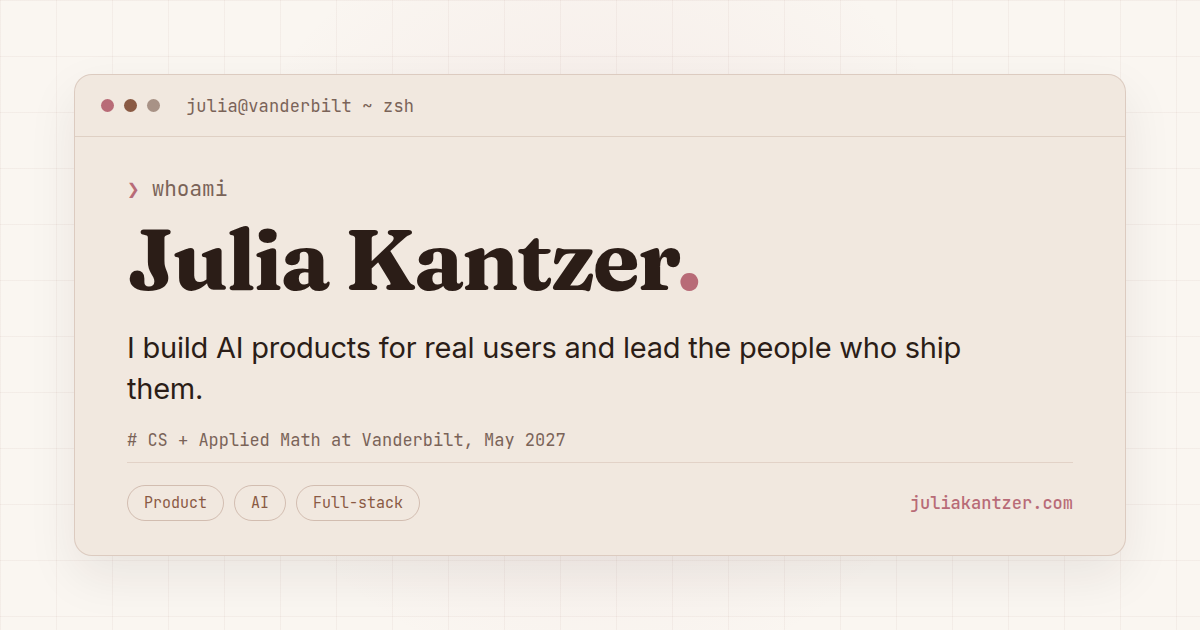
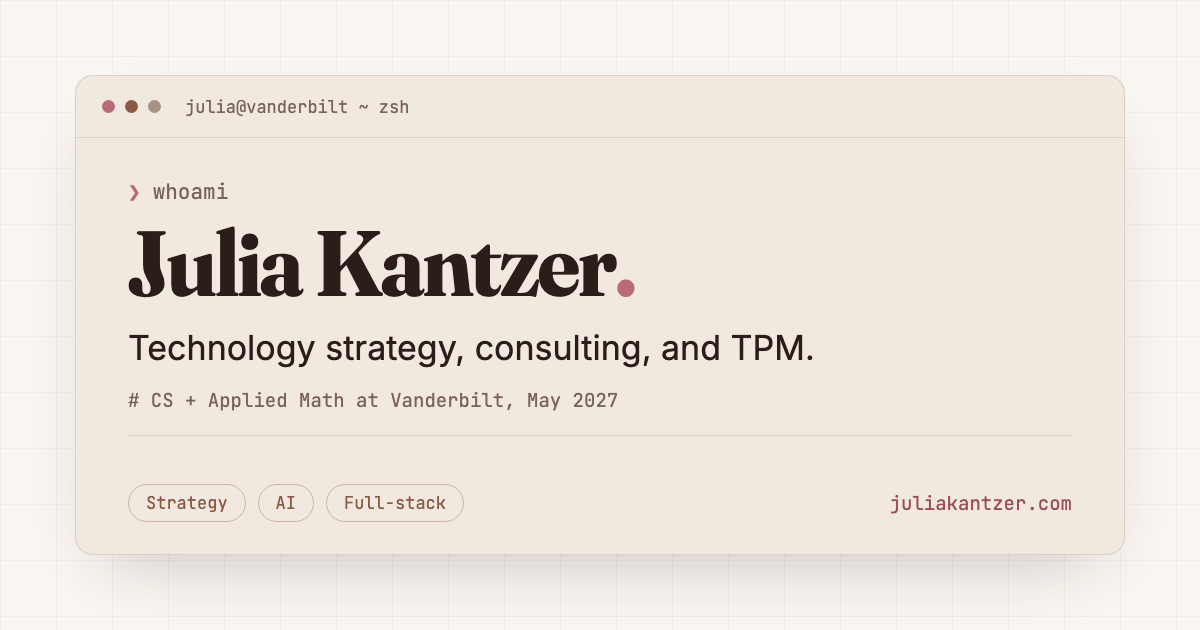
Phase 1: one positioning story for strategy, consulting, and TPM roles
- New tagline built on the Pega result, plus a seeking line in the hero
- Page title, meta, Open Graph, and Twitter tags match the new role
- Contact, interests, and console greeting copy updated
- Regenerate og-image.png from scripts/og-image.html via Playwright,
  rerun with npm run og

diff --git a/scripts/og-image.html b/scripts/og-image.html
@@ -1,0 +1,186 @@
+<!doctype html>
+<html lang="en">
+  <head>
+    <meta charset="UTF-8" />
+    <title>OG image</title>
+    <!-- Source for public/og-image.png. Render it with `npm run og`. Fonts load from node_modules. -->
+    <style>
+      @font-face {
+        font-family: 'Fraunces';
+        src: url('../node_modules/@fontsource-variable/fraunces/files/fraunces-latin-full-normal.woff2') format('woff2');
+        font-weight: 100 900;
+      }
+      @font-face {
+        font-family: 'Inter';
+        src: url('../node_modules/@fontsource-variable/inter/files/inter-latin-wght-normal.woff2') format('woff2');
+        font-weight: 100 900;
+      }
+      @font-face {
+        font-family: 'JetBrains Mono';
+        src: url('../node_modules/@fontsource-variable/jetbrains-mono/files/jetbrains-mono-latin-wght-normal.woff2')
+          format('woff2');
+        font-weight: 100 800;
+      }
+
+      :root {
+        --bg: #faf6f1;
+        --surface: #f1e8df;
+        --text: #2b1d17;
+        --muted: #7a6358;
+        --accent: #b86b77;
+        --accent-ink: #9a4c59;
+        --accent-2: #8a5a44;
+        --line: rgb(43 29 23 / 0.12);
+      }
+
+      * {
+        box-sizing: border-box;
+        margin: 0;
+      }
+
+      body {
+        width: 1200px;
+        height: 630px;
+        overflow: hidden;
+        background-color: var(--bg);
+        background-image:
+          linear-gradient(rgb(43 29 23 / 0.04) 1px, transparent 1px),
+          linear-gradient(90deg, rgb(43 29 23 / 0.04) 1px, transparent 1px);
+        background-size: 56px 56px;
+        color: var(--text);
+        font-family: 'Inter', sans-serif;
+        display: flex;
+        align-items: center;
+        justify-content: center;
+      }
+
+      .card {
+        width: 1050px;
+        height: 480px;
+        border: 1px solid var(--line);
+        border-radius: 18px;
+        background: var(--surface);
+        box-shadow: 0 30px 70px -30px rgb(43 29 23 / 0.25);
+        display: flex;
+        flex-direction: column;
+      }
+
+      .chrome {
+        display: flex;
+        align-items: center;
+        gap: 10px;
+        height: 62px;
+        padding: 0 26px;
+        border-bottom: 1px solid var(--line);
+        font-family: 'JetBrains Mono', monospace;
+        font-size: 17px;
+        color: var(--muted);
+      }
+      .dot {
+        width: 13px;
+        height: 13px;
+        border-radius: 50%;
+      }
+      .chrome span:last-child {
+        margin-left: 14px;
+      }
+
+      .body {
+        flex: 1;
+        display: flex;
+        flex-direction: column;
+        padding: 40px 52px 32px;
+      }
+
+      .cmd {
+        font-family: 'JetBrains Mono', monospace;
+        font-size: 21px;
+        color: var(--muted);
+      }
+      .cmd b {
+        color: var(--accent);
+        font-weight: 500;
+        margin-right: 12px;
+      }
+
+      h1 {
+        margin-top: 10px;
+        font-family: 'Fraunces', serif;
+        font-size: 92px;
+        font-weight: 700;
+        line-height: 1.05;
+        letter-spacing: -0.02em;
+        font-variation-settings:
+          'opsz' 144,
+          'SOFT' 30,
+          'WONK' 1;
+      }
+      h1 span {
+        color: var(--accent);
+      }
+
+      .line {
+        margin-top: 14px;
+        font-size: 34px;
+        line-height: 1.3;
+      }
+
+      .meta {
+        margin-top: 18px;
+        padding-bottom: 22px;
+        border-bottom: 1px solid var(--line);
+        font-family: 'JetBrains Mono', monospace;
+        font-size: 19px;
+        color: var(--muted);
+      }
+
+      .foot {
+        margin-top: auto;
+        display: flex;
+        align-items: center;
+        justify-content: space-between;
+      }
+      .pills {
+        display: flex;
+        gap: 12px;
+      }
+      .pill {
+        padding: 7px 17px;
+        border: 1px solid rgb(138 90 68 / 0.35);
+        border-radius: 999px;
+        font-family: 'JetBrains Mono', monospace;
+        font-size: 17px;
+        color: var(--accent-2);
+      }
+      .url {
+        font-family: 'JetBrains Mono', monospace;
+        font-size: 19px;
+        color: var(--accent-ink);
+      }
+    </style>
+  </head>
+  <body>
+    <div class="card">
+      <div class="chrome">
+        <i class="dot" style="background: #b86b77"></i>
+        <i class="dot" style="background: #8a5a44"></i>
+        <i class="dot" style="background: #a89286"></i>
+        <span>julia@vanderbilt ~ zsh</span>
+      </div>
+      <div class="body">
+        <p class="cmd"><b>❯</b>whoami</p>
+        <h1>Julia Kantzer<span>.</span></h1>
+        <p class="line">Technology strategy, consulting, and TPM.</p>
+        <p class="meta"># CS + Applied Math at Vanderbilt, May 2027</p>
+        <div class="foot">
+          <div class="pills">
+            <span class="pill">Strategy</span>
+            <span class="pill">AI</span>
+            <span class="pill">Full-stack</span>
+          </div>
+          <span class="url">juliakantzer.com</span>
+        </div>
+      </div>
+    </div>
+  </body>
+</html>

diff --git a/src/content.ts b/src/content.ts
@@ -9,8 +9,9 @@
 export const site = {
   name: 'Julia Kantzer',
   firstName: 'Julia',
-  role: 'Business and Technology Strategy',
-  tagline: 'I help teams decide what to build with AI, and make sure it works for real users.',
+  role: 'Technology Strategy, Consulting, and TPM',
+  tagline:
+    'I turn slow, manual technical processes into tools people actually use. At Pegasystems, I cut a 40-hour infrastructure sizing process to under 40 minutes with a guided AI tool my team uses today.',
   location: 'Nashville, TN',
   email: 'juliakantzer@gmail.com',
   linkedin: 'https://www.linkedin.com/in/julia-kantzer/',
@@ -21,12 +22,15 @@ export const site = {
   headshotAlt: 'Julia Kantzer smiling, wearing a dark blazer',
   siteUrl: 'https://juliakantzer.com',
   description:
-    'Julia Kantzer helps teams decide what to build with AI and makes sure it works for real users. CS and Applied Math at Vanderbilt. Where business and technology meet.',
+    'CS and Applied Math at Vanderbilt, May 2027. Cut a 40-hour infrastructure sizing process at Pegasystems to under 40 minutes with a guided AI tool. Seeking technology strategy, consulting, and TPM roles.',
 }
 
 export const hero = {
   meta: 'CS + Applied Math at Vanderbilt, May 2027',
   status: 'Currently at Pegasystems',
+  /** Shown between the tagline and the buttons. */
+  seeking:
+    'Seeking new grad roles in technology strategy, technology consulting, and technical program management, starting summer 2027.',
   buttons: [
     { label: 'View Work', href: '#work', kind: 'primary' as const },
     { label: 'Resume', href: site.resumeUrl, kind: 'secondary' as const, download: true },
@@ -416,8 +420,8 @@ export const skills = {
    Interests
 ------------------------------------------------------------------------- */
 export const interests = {
-  eyebrow: 'Interests',
-  body: 'The place where business and technology meet. I like deciding what to build and why as much as building it. Right now that means AI products end to end, and closing the gap between a model that works in a demo and a product that works for real users.',
+  eyebrow: 'What I want next',
+  body: 'I like deciding what to build and why as much as building it. I want a role between the people who set direction and the engineers who deliver it, especially on AI products, where the gap between a working demo and a reliable product is widest.',
 }
 
 /* -------------------------------------------------------------------------
@@ -426,8 +430,8 @@ export const interests = {
 export const contact = {
   id: 'contact',
   eyebrow: 'Contact',
-  title: 'Let’s build something.',
-  body: 'Open to business and technology strategy, product, and consulting roles. Anywhere business and technology meet. Willing to relocate.',
+  title: 'Let’s talk.',
+  body: 'Open to new grad roles in technology strategy, technology consulting, technical program management, and product-focused engineering, starting summer 2027. Willing to relocate. Email is the fastest way to reach me.',
   links: [
     { label: 'Email', value: site.email, href: `mailto:${site.email}` },
     { label: 'LinkedIn', value: 'linkedin.com/in/julia-kantzer', href: site.linkedin },
@@ -455,5 +459,5 @@ export const consoleGreeting = {
  | |_| | |_| | | | (_| | | . \\ (_| | | | | |_ / /  __/ |
   \\___/ \\__,_|_|_|\\__,_| |_|\\_\\__,_|_| |_|\\__/___\\___|_|
 `,
-  line: `Open to product engineering and forward deployed roles. Say hi: ${site.email}`,
+  line: `Open to technology strategy, consulting, and TPM roles. Say hi: ${site.email}`,
 }

diff --git a/index.html b/index.html
@@ -3,30 +3,30 @@
   <head>
     <meta charset="UTF-8" />
     <meta name="viewport" content="width=device-width, initial-scale=1.0" />
-    <title>Julia Kantzer | Business and Technology Strategy</title>
+    <title>Julia Kantzer | Technology Strategy, Consulting, and TPM</title>
     <meta
       name="description"
-      content="Julia Kantzer helps teams decide what to build with AI and makes sure it works for real users. CS and Applied Math at Vanderbilt. Where business and technology meet."
+      content="CS and Applied Math at Vanderbilt, May 2027. Cut a 40-hour infrastructure sizing process at Pegasystems to under 40 minutes with a guided AI tool. Seeking technology strategy, consulting, and TPM roles."
     />
     <link rel="icon" type="image/svg+xml" href="/favicon.svg" />
     <link rel="apple-touch-icon" href="/apple-touch-icon.png" />
     <link rel="canonical" href="https://juliakantzer.com/" />
     <meta property="og:type" content="website" />
-    <meta property="og:title" content="Julia Kantzer | Business and Technology Strategy" />
+    <meta property="og:title" content="Julia Kantzer | Technology Strategy, Consulting, and TPM" />
     <meta
       property="og:description"
-      content="Helps teams decide what to build with AI, where business and technology meet. CS and Applied Math at Vanderbilt, May 2027."
+      content="CS and Applied Math at Vanderbilt, May 2027. Cut a 40-hour infrastructure sizing process at Pegasystems to under 40 minutes with a guided AI tool. Seeking technology strategy, consulting, and TPM roles."
     />
     <meta property="og:url" content="https://juliakantzer.com/" />
     <meta property="og:image" content="https://juliakantzer.com/og-image.png" />
     <meta property="og:image:width" content="1200" />
     <meta property="og:image:height" content="630" />
-    <meta property="og:image:alt" content="Julia Kantzer. I build AI products for real users." />
+    <meta property="og:image:alt" content="Julia Kantzer. Technology strategy, consulting, and TPM." />
     <meta name="twitter:card" content="summary_large_image" />
-    <meta name="twitter:title" content="Julia Kantzer | Business and Technology Strategy" />
+    <meta name="twitter:title" content="Julia Kantzer | Technology Strategy, Consulting, and TPM" />
     <meta
       name="twitter:description"
-      content="Helps teams decide what to build with AI, where business and technology meet. CS and Applied Math at Vanderbilt, May 2027."
+      content="CS and Applied Math at Vanderbilt, May 2027. Cut a 40-hour infrastructure sizing process at Pegasystems to under 40 minutes with a guided AI tool. Seeking technology strategy, consulting, and TPM roles."
     />
     <meta name="twitter:image" content="https://juliakantzer.com/og-image.png" />
     <meta name="theme-color" content="#FAF6F1" media="(prefers-color-scheme: light)" />

diff --git a/src/components/Hero.tsx b/src/components/Hero.tsx
@@ -18,7 +18,8 @@ export function Hero() {
         {site.name}
       </h1>
       <p className="mt-6 max-w-2xl text-xl leading-relaxed text-text sm:text-2xl">{site.tagline}</p>
-      <div className="print-hidden mt-10 flex flex-wrap items-center gap-3">
+      <p className="mt-5 max-w-2xl text-base leading-relaxed text-muted">{hero.seeking}</p>
+      <div className="print-hidden mt-8 flex flex-wrap items-center gap-3">
         {hero.buttons.map((b) => (
           <ButtonLink
             key={b.label}
